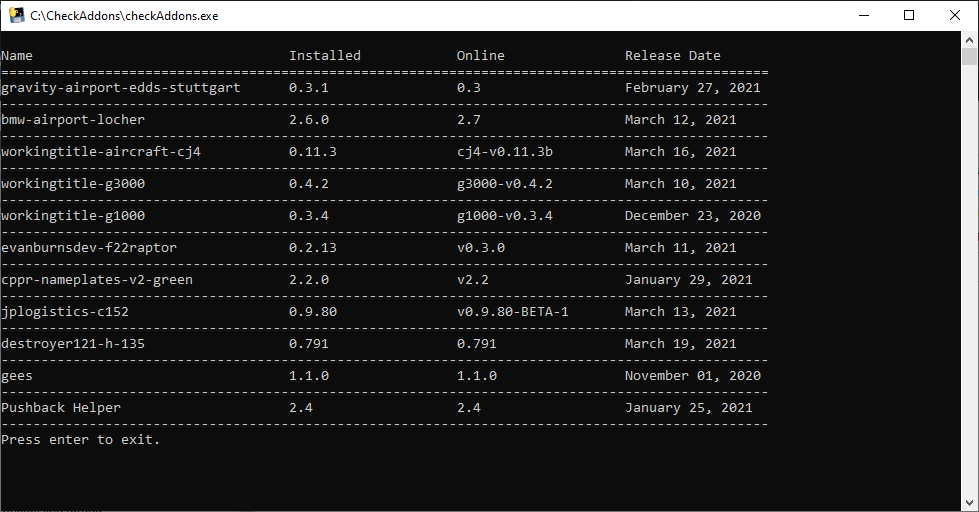
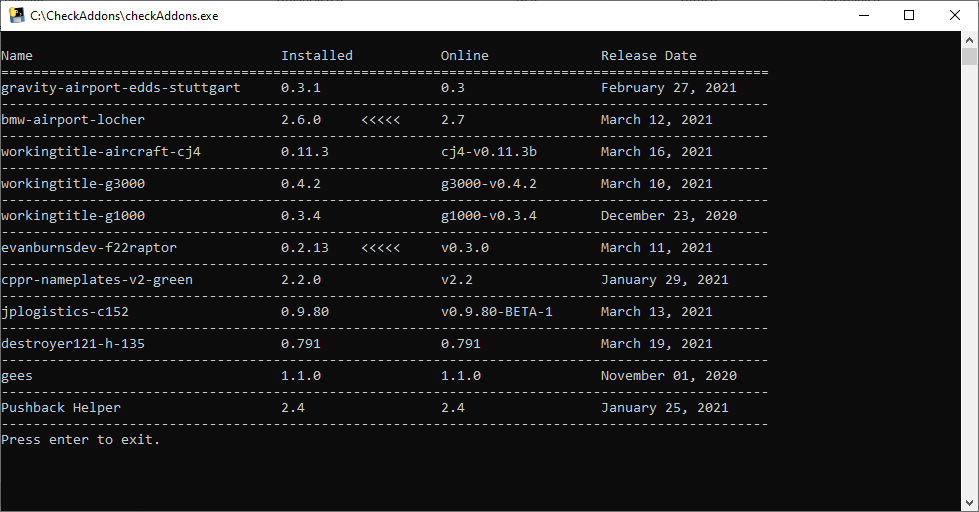
Mark new versions

diff --git a/src/checkAddons.py b/src/checkAddons.py
@@ -3,17 +3,6 @@ import dateutil.parser
 from xml.dom import minidom
 from bs4 import BeautifulSoup
 
-class colors:
-    STANDARD = ""
-    VIOLET = '\033[95m'
-    BLUE = '\033[94m'
-    CYAN = '\033[96m'
-    GREEN = '\033[92m'
-    YELLOW = '\033[93m'
-    RED = '\033[91m'
-    ENDC = '\033[0m'
-    WHITE = '\033[1m'
-
 # Set execution folder to folder of .py file
 os.chdir(sys.path[0]) 
 # MS Store
@@ -29,7 +18,7 @@ if doc.documentElement.hasAttribute("communityFolder"):
 headers = {'user-agent': 'Mozilla/5.0'}
 
 print("")
-print("{:<35} {:<20} {:<20} {:<25}".format("Name", "Installed", "Online", "Release Date"))
+print("{:<35}{:<20}{:<20}{:<25}".format("Name", "Installed", "Online", "Release Date"))
 print("================================================================================================")
 for addon in addons:
     addonName = addon.getAttribute("name")
@@ -75,20 +64,23 @@ for addon in addons:
                 onlineReleaseDate = dt.strftime("%B %d, %Y")
     if addon.hasAttribute("installedVersion"):
         installedVersion = addon.getAttribute("installedVersion")
-    color = colors.STANDARD
-    # check if version is newer
-    installedCode = re.search(r'(\d+\.\d+)', installedVersion)
-    onlineCode = re.search(r'(\d+\.\d+)', onlineVersion)
+    newer = ""
+    # check if version is newer. xx.yy[.zz][.vv]
+    installedCode = re.search(r'(\d+\.\d+(\.\d+)*)', installedVersion)
+    onlineCode = re.search(r'(\d+\.\d+(\.\d+)*)', onlineVersion)
     if installedCode and onlineCode: # found results for both
         installedNumbers = installedCode.group(1).split(".")
         onlineNumbers = onlineCode.group(1).split(".")
-        if onlineNumbers[0] > installedNumbers[0]:
-            color = colors.YELLOW
-        else: 
-            if onlineNumbers[0] == installedNumbers[0] and onlineNumbers[1] > installedNumbers[1]:
-                color = colors.YELLOW
+        positions = min(len(installedNumbers), len(onlineNumbers))
+        for i in range(positions):
+            if onlineNumbers[i] < installedNumbers[i]:
+                break
+            if onlineNumbers[i] > installedNumbers[i]:
+                newer = "<<<<<"
+                break
+            # if equal check next position
     # Output
-    print(color + "{:<35} {:<20} {:<20} {:<25}".format(addonName, installedVersion, onlineVersion, onlineReleaseDate) + colors.ENDC)
+    print("{:<35}{:<10}{:<10}{:<20}{:<25}".format(addonName, installedVersion, newer, onlineVersion, onlineReleaseDate))
     print("------------------------------------------------------------------------------------------------")
 input("Press enter to exit.")
 
